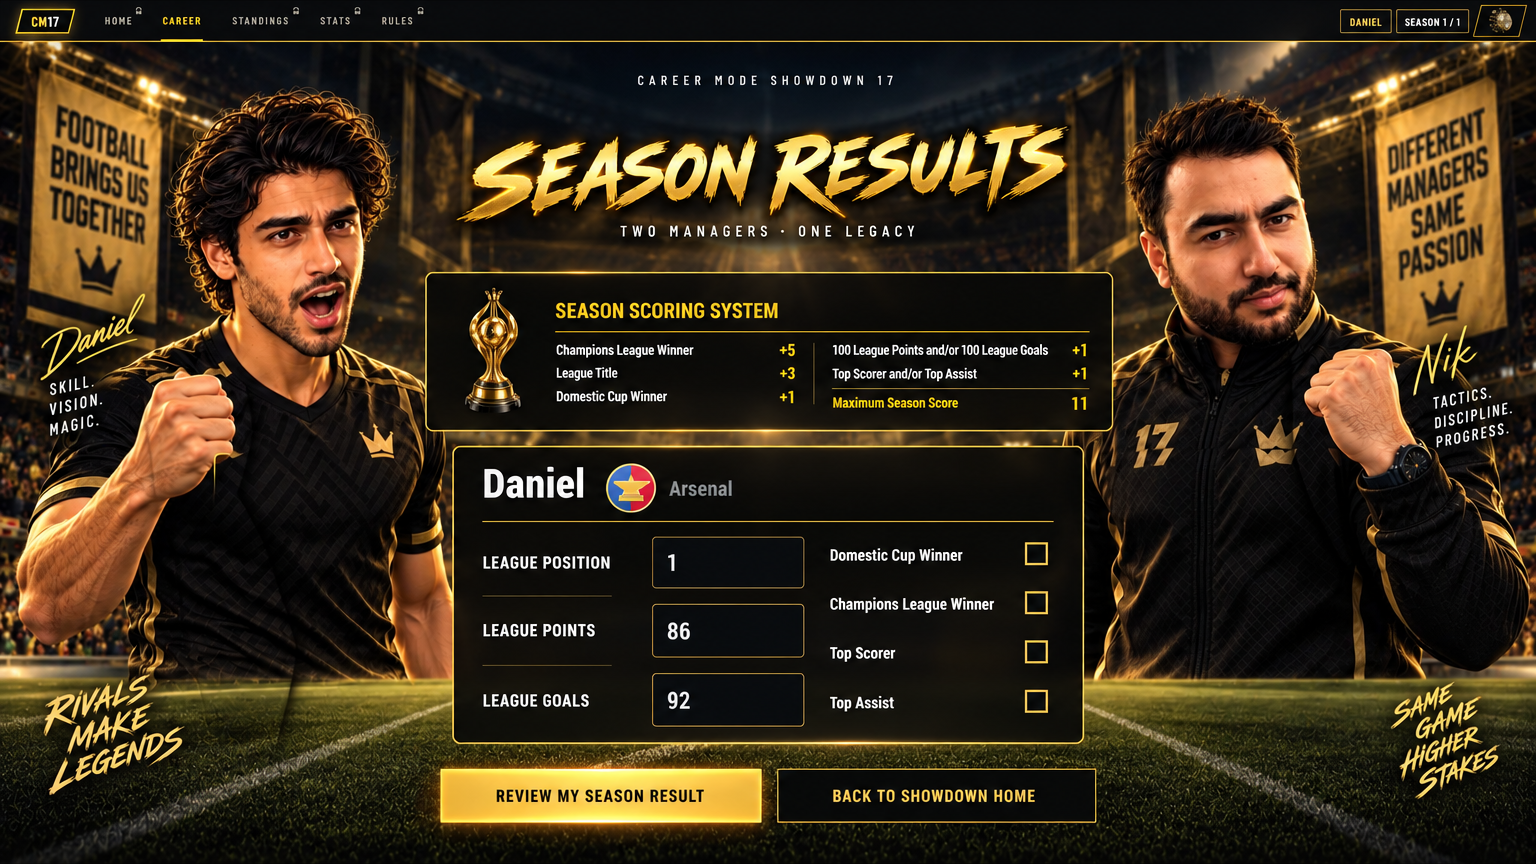
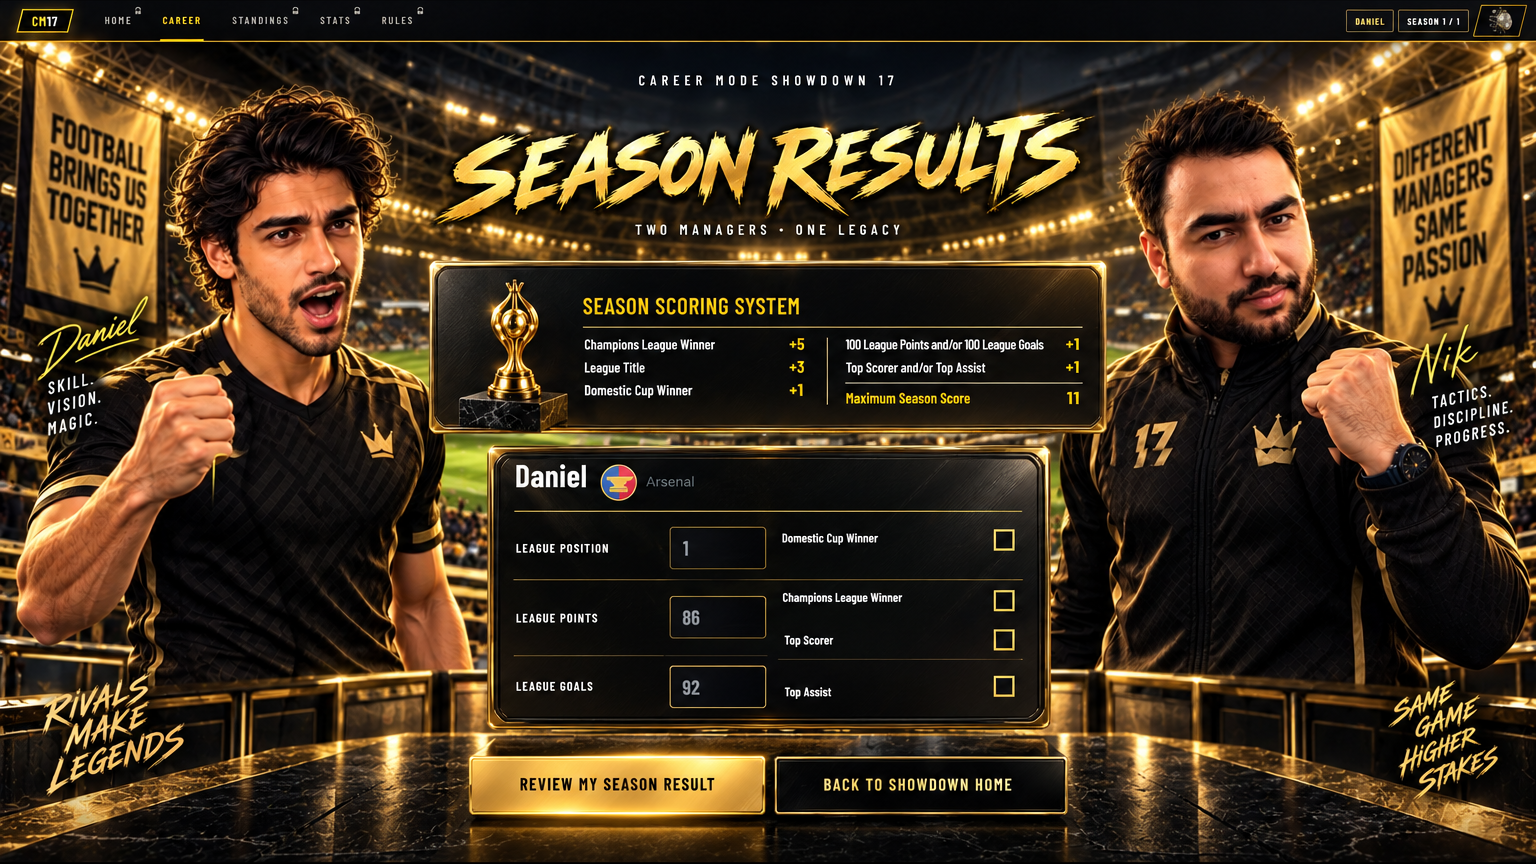
Mockups: re-approve NEXT_SEASON_RESULTS with the premium redo
Claude-Session: https://claude.ai/code/session_013pn5j1NjipzmcDNVpF7Fd3

diff --git a/project-documents/factory/mockups/README.md b/project-documents/factory/mockups/README.md
@@ -32,7 +32,7 @@ Nik's mockups and goal images. They show the look to reach. Some contain real cl
 | NEXT_HOME.png | Home (desktop, premium) | Sun 11 Oct 6:55 p.m. Eastern | Premium redo (ticket 1610 1 of 14, rewritten prompt), replaces the earlier approved Home, cropped to the screen (1536x871). Same layout and words as live: top bar with CM17 and the five tabs, SIGN IN and NO ACTIVE SHOWDOWN at the top right (SIGN IN required, Nik 11 Oct), THE RIVALRY STARTS HERE, CAREER MODE SHOWDOWN 17 gold brush title, TWO MANAGERS · ONE LEGACY, Daniel LEFT and Nik RIGHT with their name tags, Audius soundtrack card, RIVALRY HEADQUARTERS line, CONTINUE CAREER gold tile and the six tiles with large art. New: black-marble stadium lounge with brushed-gold columns and glass windows on the floodlit pitch, gold-bevel tiles. sha256 0ba7f7528bd2640f… |
 | NEXT_RULE_BOOK.png | Rule Book (desktop, next level) | Sun 11 Oct 3:58 a.m. Eastern | Ticket 1610 13 of 14, first try with the stricter prompt, cropped to the screen (1536x880). Top bar, title, all six cards and every line of 01-05 plus the scoring table match live. Claude fix: GPT merged and garbled the four 06 CONNECTION & RECOVERY lines, so Claude repainted that card body with the four live lines in Barlow (no other pixels touched). Wiring notes: the subtitle shows a comma after "Permanent clubs" (live has a full stop), and the right banner reads SAME AMBITION; use the live banner art (SAME PASSION). New: calmer gold stadium, framed cards, bigger readable rule lines. sha256 bc23b9e610d44f75… |
 | NEXT_CONNECT_PLAYERS.png | Connect Players (desktop, premium) | Sun 11 Oct 6:54 p.m. Eastern | Premium redo (ticket 1610 2 of 14, rewritten prompt), replaces the 6:30 p.m. picture, cropped to 16:9 (1536x864). Same layout and words as live: top bar with CM17 and the five tabs, CONNECT PLAYERS gold-leaf title and line, Daniel LEFT and Nik RIGHT unchanged, all four banners, BACK in the right card. New: black-marble VIP tunnel with brushed-gold walls, framed gold-bevel cards, polished-gold CHOOSE SEASONS. Wiring note: card titles show a dash (DANIEL - START, NIK - JOIN); keep the live middle dot. sha256 e86d6f0a4ba5f52d… |
-| NEXT_SEASON_RESULTS.png | Season Results (desktop, next level) | Sun 11 Oct 6:33 p.m. Eastern | Ticket 1610 3 of 14, cropped to 16:9 (1536x864). Same layout and words as live: top bar with lock marks and the DANIEL / SEASON 1 / 1 chips, SEASON RESULTS brush title, TWO MANAGERS · ONE LEGACY, scoring card (+5, +3, +1, +1, +1, max 11), Daniel's entry card (Arsenal, our original badge), four award checkboxes, REVIEW MY SEASON RESULT and BACK TO SHOWDOWN HOME. Daniel LEFT, Nik RIGHT unchanged, all four banners. New: bigger entry fields and labels, stronger card frames, calmer pitch light. sha256 561a27dd53fb019e… |
+| NEXT_SEASON_RESULTS.png | Season Results (desktop, premium) | Sun 11 Oct 6:58 p.m. Eastern | Premium redo (ticket 1610 3 of 14, rewritten prompt), replaces the 6:33 p.m. picture, cropped to 16:9 (1536x864). Same layout and words as live: top bar with lock marks and the DANIEL / SEASON 1 / 1 chips, SEASON RESULTS gold brush title, TWO MANAGERS · ONE LEGACY, scoring card (+5, +3, +1, +1, +1, max 11), Daniel's entry card (Arsenal, our original badge), four award checkboxes, REVIEW MY SEASON RESULT and BACK TO SHOWDOWN HOME. Daniel LEFT, Nik RIGHT unchanged, all four banners. New: black-marble broadcast stand, trophy on a marble plinth, gold-bevel framed cards, polished-gold main button. Wiring note: keep our own club badge. sha256 49bc9add9db5d71d… |
 | PHONE_SETTINGS.png | Settings | Sat 10 Oct 11:22 p.m. Eastern | Ticket 1588 12 of 12, first try. Every word matches live. New: bevelled black glass panels with gold edges, gold-framed SIGN IN WITH GOOGLE, bevelled gold DONE with a clear margin, calmer stadium. Wiring note: DANIEL & NIK and CAREER MODE SHOWDOWN headings still use a plain sans copied from live; use the game condensed font there like every other label. sha256 13f4c99be317608a… |
 | PHONE_RULE_BOOK.png | Rule Book | Sun 11 Oct 3:17 a.m. Eastern | Ticket 1588 13 of 14, after the stricter prompt (earlier tries invented rules and tabs). Every word matches live: section 01's six lines word for word, 02-06 as closed accordion rows, gear button top right, BACK TO MAIN MENU, bottom tabs HOME / CAREER / STANDINGS / STATS / RULES with RULES lit. New: one framed accordion that fits 393x660 with no scroll, gold-ringed numbers, calm stadium night. sha256 08231f324078e9de… |
 | PHONE_STANDINGS.png | Standings | Sun 11 Oct 3:53 a.m. Eastern | Ticket 1588 14 of 14, after the stricter prompt. Both managers unchanged (Daniel LEFT pointing, Nik RIGHT arms crossed), gear top right, live five-tab bar with STANDINGS lit. Every live word and number: THIS SHOWDOWN / CAREER switch, HEAD-TO-HEAD, SEASON 3 OF 3, SHOWDOWN POINTS 16 : 8, DANIEL LEADS, both club badges as live, and all seven rows on screen (Season Wins 2/1, Draws 0/0, Losses 1/2, Champions Leagues 1/1, League Titles 2/1, Domestic Cups 2/0, Total Trophies 5/2). Row labels shown in capitals (live is title case; keep live case when wiring if preferred). New: whole card fits 393x660 with no scroll, framed black-glass card, gold separators. sha256 3be8fa56ea8f8aff… |
